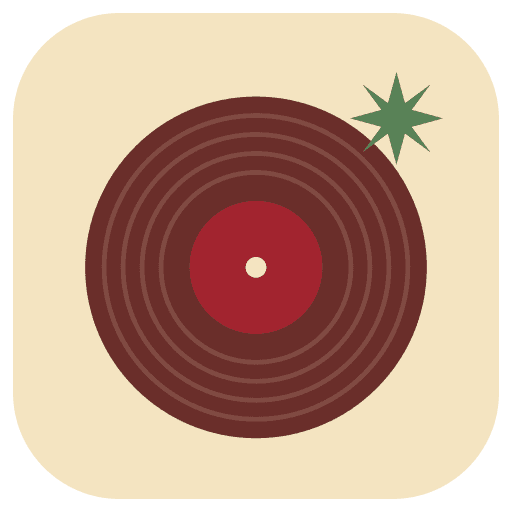
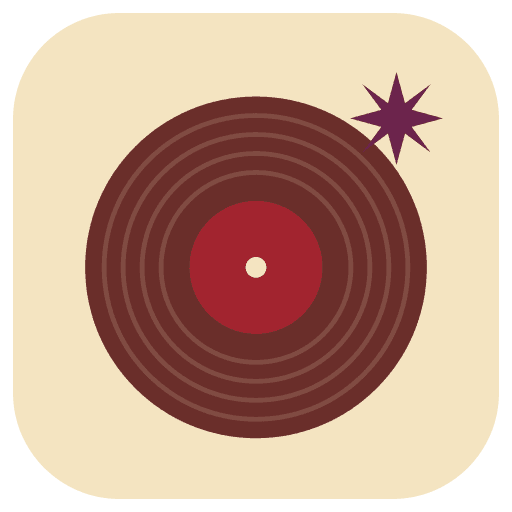
style: crimson violet #6c244c as the complement
Replaces the green, which clashed with the brown red: switches, Solo,
"En bucle", the loop on the timeline, the score selection, the Folk label,
the beginner dot and the icon's starburst. Pearl text on it is 8.4:1.
The dark theme uses a light violet.

Claude-Session: https://claude.ai/code/session_01XSi9fUsrvHTVty7qYN73Sh

Changed region(s): [[0.6875, 0.1562, 0.875, 0.3125], [0.8125, 0.1562, 0.8438, 0.1875]]

diff --git a/src/styles/tokens.css b/src/styles/tokens.css
@@ -1,6 +1,6 @@
 /*
  * Mid-century hi-fi: warm paper grounds, chocolate rules, a brown-red primary,
- * sage green as the complement, light bronze only for shadows and fills.
+ * crimson violet as the complement, light bronze only for shadows and fills.
  * Layout: a dashboard around the tab. "Now playing" on top, the tab card as the hero with its
  * transport, the console (tempo, tracks) beside it, sections and favourites below; the library is a drawer.
  * Themes: light (pearl) and an after-hours dark (chocolate). The viewer picks Claro, Oscuro or Sistema;
@@ -12,7 +12,7 @@
   --bronze: #e6af91;
   --chocolate: #6a2e2a;
   --brown-red: #a2242f;
-  --hunter: #588157;
+  --violet: #6c244c;
 
   /* roles */
   --ground: var(--pearl);
@@ -24,9 +24,8 @@
   --rule: var(--chocolate);
   --primary: var(--brown-red);
   --on-primary: var(--pearl);
-  /* 1% darker than --hunter so white text on it stays readable (4.5:1); the eye cannot tell them apart. */
-  --complement: #578056;
-  --on-complement: #ffffff;
+  --complement: var(--violet);
+  --on-complement: var(--pearl);
   --shadow-color: var(--bronze);
   --hover: color-mix(in srgb, var(--bronze) 35%, transparent);
   --selected: color-mix(in srgb, var(--brown-red) 12%, var(--surface));
@@ -62,7 +61,7 @@
     --rule: color-mix(in srgb, var(--pearl) 55%, transparent);
     --primary: #e66f75;
     --on-primary: #2a1513;
-    --complement: #8fb38d;
+    --complement: #d7a3c2;
     --on-complement: #2a1513;
     --shadow-color: #0d0505;
     --hover: color-mix(in srgb, var(--bronze) 16%, transparent);
@@ -80,7 +79,7 @@
   --rule: color-mix(in srgb, var(--pearl) 55%, transparent);
   --primary: #e66f75;
   --on-primary: #2a1513;
-  --complement: #8fb38d;
+  --complement: #d7a3c2;
   --on-complement: #2a1513;
   --shadow-color: #0d0505;
   --hover: color-mix(in srgb, var(--bronze) 16%, transparent);

diff --git a/src/styles/app.css b/src/styles/app.css
@@ -700,7 +700,7 @@ p {
   height: 40px;
 }
 [data-genre='Folk'] {
-  --label: var(--hunter);
+  --label: var(--violet);
 }
 [data-genre='Clásica'] {
   --label: var(--bronze);
@@ -897,7 +897,7 @@ p {
   background: color-mix(in srgb, var(--bronze) 28%, transparent);
 }
 .at-selection div {
-  background: color-mix(in srgb, var(--hunter) 18%, transparent);
+  background: color-mix(in srgb, var(--violet) 16%, transparent);
 }
 .at-cursor-beat {
   background: var(--brown-red);
